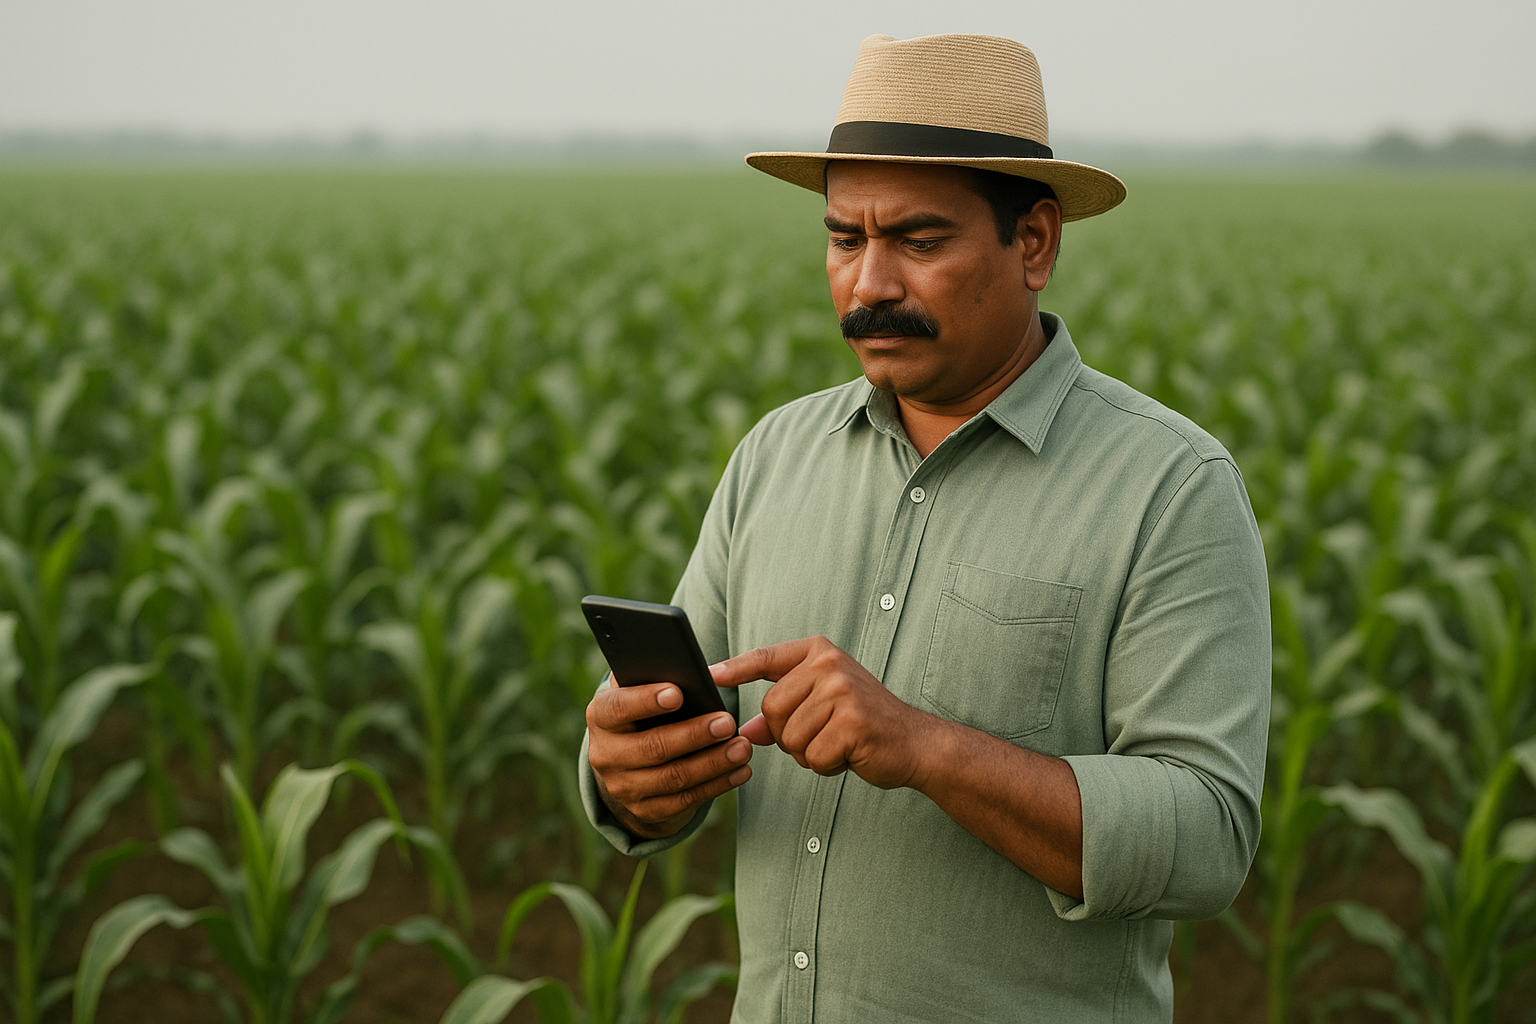
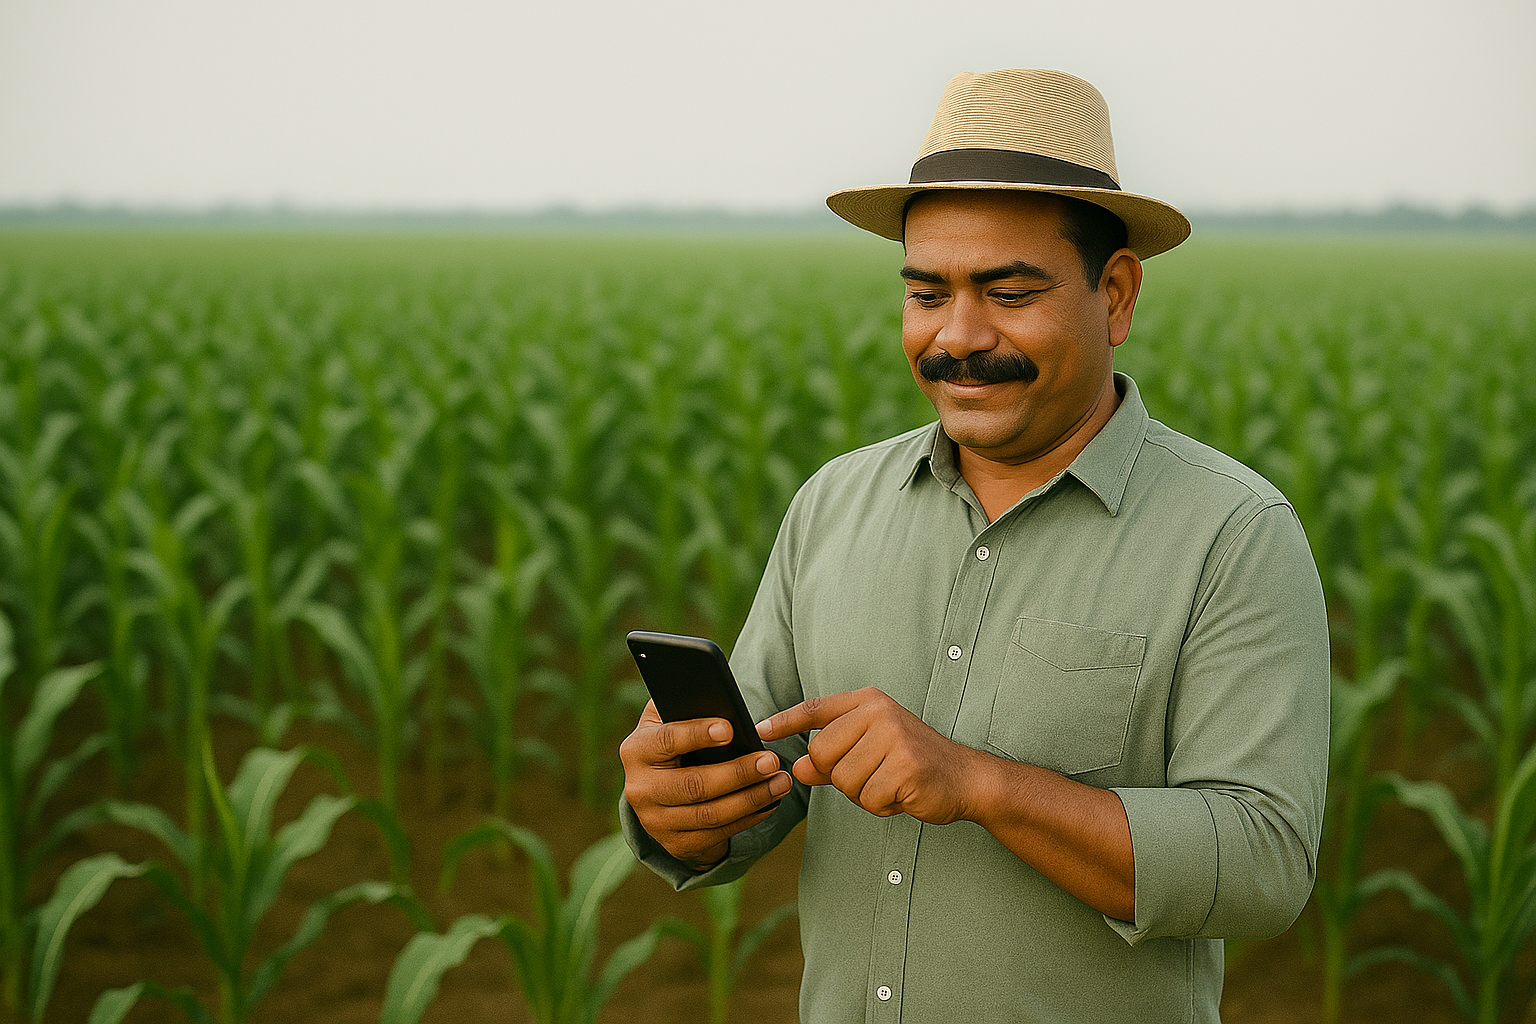
modified

diff --git a/frontend/src/pages/LandingPage.tsx b/frontend/src/pages/LandingPage.tsx
@@ -2,6 +2,7 @@ import { ArrowRight, Bot, Cloud, Eye, TrendingUp } from "lucide-react"
 import { Button } from "@/components/ui/button"
 import { Card, CardContent, CardDescription, CardHeader, CardTitle } from "@/components/ui/card"
 import { useNavigate } from "react-router-dom"
+import farmerBackground from "@/assets/farmerbackground.png"
 
 export default function LandingPage() {
   const navigate = useNavigate()
@@ -34,22 +35,28 @@ export default function LandingPage() {
       {/* Hero Section */}
       <section className="relative min-h-[80vh] flex items-center justify-center px-4 sm:px-6 lg:px-8">
         <div className="absolute inset-0 z-0">
-          <div className="w-full h-full bg-gradient-to-r from-green-500/20 to-emerald-500/20 backdrop-blur-sm"></div>
+          <img 
+            src={farmerBackground} 
+            alt="Farmer in field using smartphone technology" 
+            className="w-full h-full object-cover"
+          />
+          <div className="absolute inset-0 bg-gradient-to-r from-black/50 via-black/30 to-transparent"></div>
+          <div className="absolute inset-0 bg-gradient-to-t from-black/40 via-transparent to-black/20"></div>
         </div>
         
         <div className="relative z-10 text-center max-w-4xl mx-auto">
-          <h1 className="text-4xl sm:text-5xl lg:text-6xl font-bold text-gray-900 mb-6">
-            <span className="text-green-600">SmartKrishi</span> —<br />
+          <h1 className="text-4xl sm:text-5xl lg:text-6xl font-bold text-white mb-6 drop-shadow-lg">
+            <span className="text-green-400">SmartKrishi</span> —<br />
             Your AI-Powered Farming Assistant
           </h1>
           
-          <p className="text-xl sm:text-2xl text-gray-600 mb-8 max-w-2xl mx-auto">
+          <p className="text-xl sm:text-2xl text-gray-100 mb-8 max-w-2xl mx-auto drop-shadow-md">
             Get personalized crop advice, real-time weather, and market insights to boost your farm's productivity.
           </p>
           
           <Button 
             size="lg" 
-            className="text-lg px-8 py-6 bg-green-600 hover:bg-green-700"
+            className="text-lg px-8 py-6 bg-green-600 hover:bg-green-700 shadow-xl hover:shadow-2xl transition-all duration-300"
             onClick={() => navigate("/mobile-auth")}
           >
             Get Started
